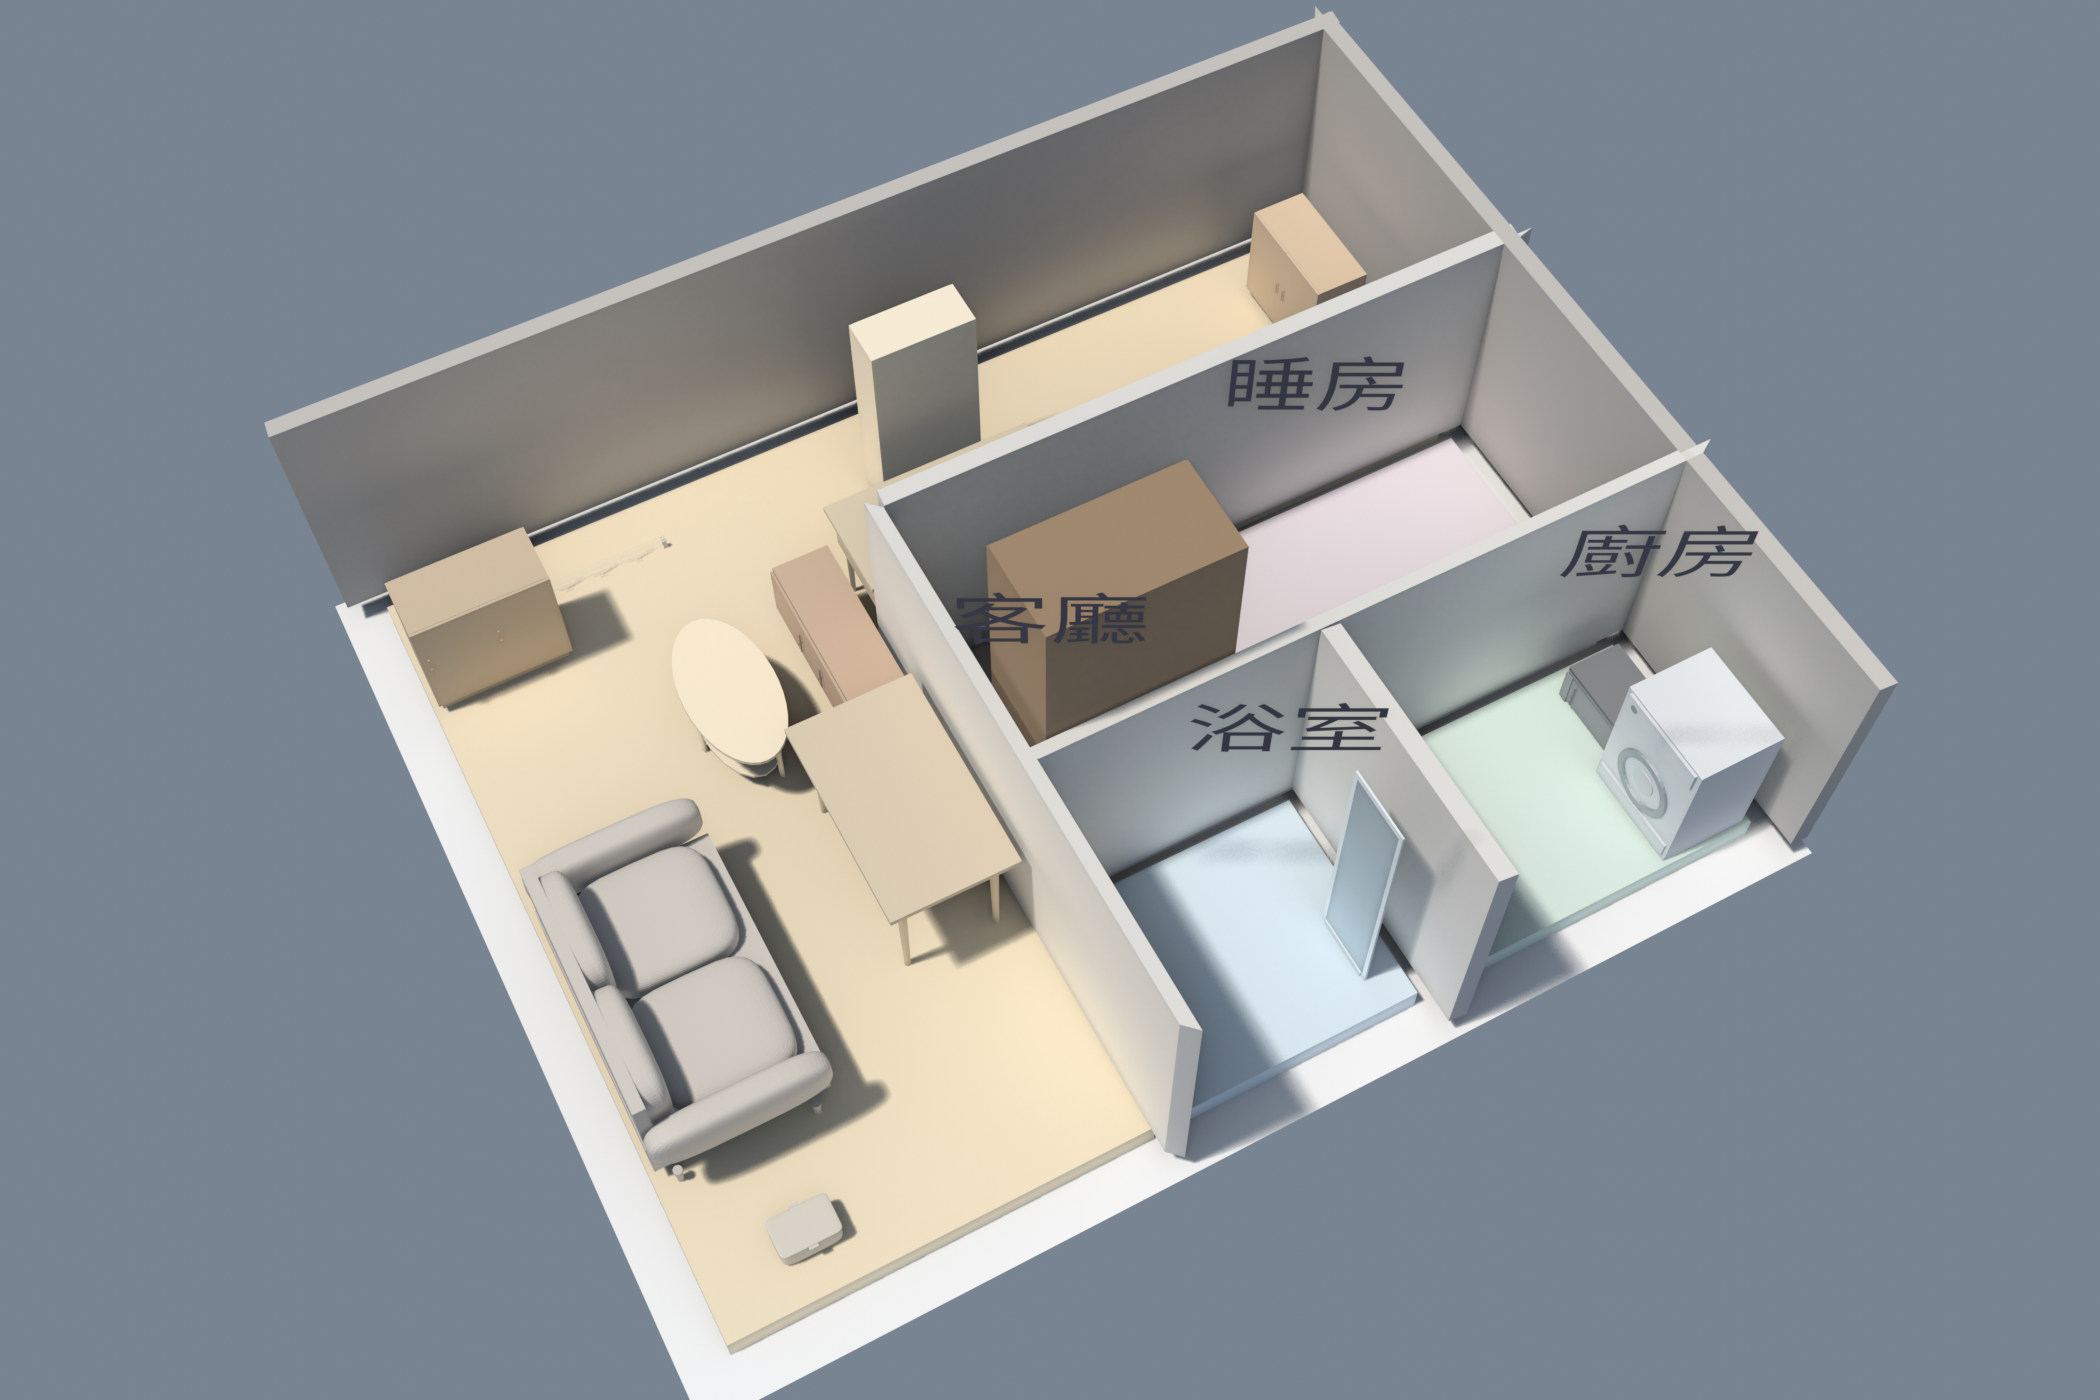
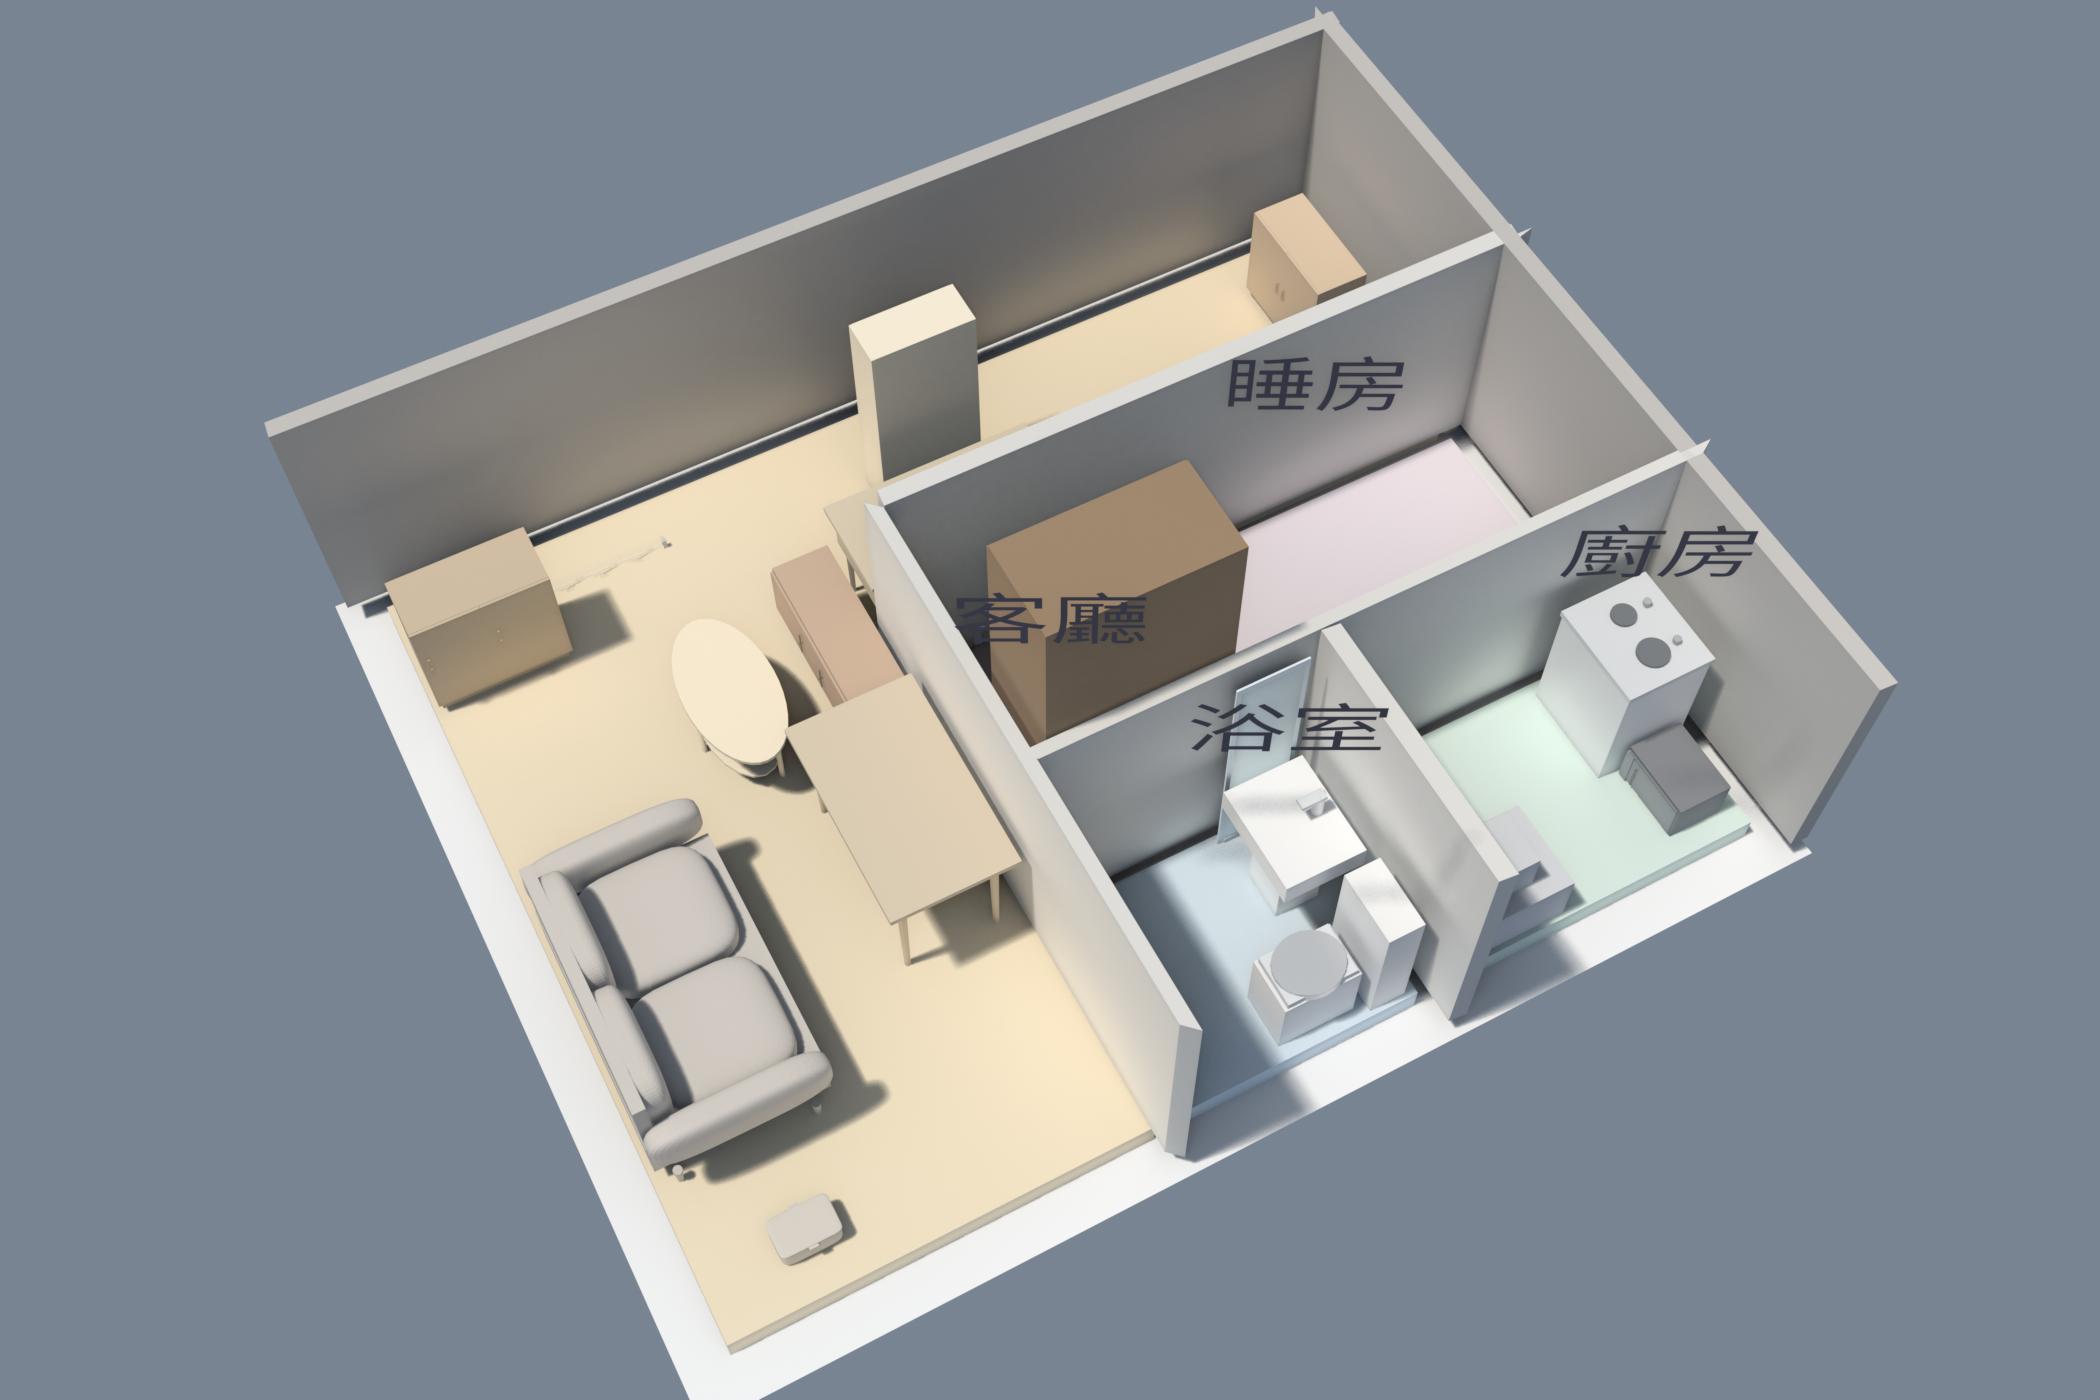
LLM 顾问层改用 DeepSeek-V4.1-Flash；修好「浴室没有马桶」和「整间房走不到」
两个都是小户型才暴露、而且都会让结果不合理地「看起来正常」的 bug：

1. 门洞走道固定 900x1200 = 1.08m²，而 plan_hk_b 浴室可用面积只有 1.57m²
   —— 走道吃掉 69% 楼面，马桶/洗手盆/淋浴间全部放不下，求解器最后
   只摆得下一块 400x30 的镜子。改成走道面积上限 = 房间面积 30%，
   深度下限 600mm。大房间不受影响。

2. _unreachable_items 从门口格洪水填充，门口格一旦落在某件家具的
   300mm 缓冲里就直接返回「全部家具都走不到」。1.57m² 的浴室里
   门口格必然被马桶盖住 —— 于是整间浴室报 3 条硬伤。
   改成从最近的自由格开始填充。

另外把 LLM 从本地 Qwen3.8-27B 换成 DeepSeek-V4.1-Flash API：
- 方言自动判别（llama.cpp 用 chat_template_kwargs，DeepSeek 用 reasoning_effort）
- DeepSeek 没有「关思考」选项，effort=low 在 prompt 变大后仍会用光
  2000 token 去思考、content 回来是空的 —— 改成 8000 且截断时加倍重试
- 不再随手把 reasoning_content 当答案解析（那是未完成的草稿）
- key 从 env / ~/.dsh/.credentials.yaml 读，不入库不入日志

实测：plan_hk_a 硬伤 4->0、plan_hk_b 硬伤 3->0，两间屋的浴室都有马桶。

Changed region(s): [[0.5571, 0.4607, 0.7738, 0.7679], [0.7119, 0.3993, 0.8667, 0.6143]]

diff --git a/packages/geometry/hkgeometry/livability.py b/packages/geometry/hkgeometry/livability.py
@@ -133,26 +133,44 @@ def _unreachable_items(room: Room, layout: Layout, person_mm: int = 600,
     ex, ey = room.entrance_point()
     ix = int(min(max(0, round((ex - minx - cell / 2) / cell)), nx - 1))
     iy = int(min(max(0, round((ey - miny - cell / 2) / cell)), ny - 1))
-    src = lab[iy, ix]
-    if src == 0:                      # 门口被堵死，整屋不可达
-        return [p.inst for p in layout.placements]
     def to_cell(px, py):
         jx = int(round((px - minx - cell / 2) / cell))
         jy = int(round((py - miny - cell / 2) / cell))
         return min(max(0, jx), nx - 1), min(max(0, jy), ny - 1)
 
-    def nearest_free(jxc, jyc, radius=12):
+    def nearest_free(jxc, jyc, radius=12, want=None):
         """在前方邻域里找最近的自由格 —— 探针点常常正好落在缓冲边界上，
-        直接取样会误报「走不到」。半径 12 格 = 1200mm。"""
+        直接取样会误报「走不到」。半径 12 格 = 1200mm。
+
+        want=None 表示「任何非 0 格都可以」（找起點時用）；
+        否則只在同一個連通域裡找。"""
         best, bd = None, 10 ** 9
         for dy in range(-radius, radius + 1):
             for dx in range(-radius, radius + 1):
                 jx, jy = jxc + dx, jyc + dy
-                if 0 <= jx < nx and 0 <= jy < ny and lab[jy, jx] == src:
-                    d = dx * dx + dy * dy
-                    if d < bd:
-                        bd, best = d, (jx, jy)
+                if not (0 <= jx < nx and 0 <= jy < ny):
+                    continue
+                lv = lab[jy, jx]
+                if lv == 0:
+                    continue
+                if want is not None and lv != want:
+                    continue
+                d = dx * dx + dy * dy
+                if d < bd:
+                    bd, best = d, (jx, jy)
         return best
+
+    src = lab[iy, ix]
+    if src == 0:
+        # ★ 門口格被家具緩衝蓋住 ≠ 整間房走唔到。
+        #   實測 plan_hk_b 浴室（1.57m²，深 1180mm）：門口探測點正好落在
+        #   馬桶的 300mm 緩衝裡，舊版就直接 return「全部家具都走唔到」——
+        #   一間正常嘅浴室被報成三件都行唔到。正確做法係由**最近的自由格**
+        #   開始淹水，唔係放棄。
+        nf = nearest_free(ix, iy)
+        if nf is None:
+            return [p.inst for p in layout.placements]
+        src = lab[nf[1], nf[0]]
 
     out = []
     for p in layout.placements:
@@ -163,7 +181,7 @@ def _unreachable_items(room: Room, layout: Layout, person_mm: int = 600,
         jx, jy = to_cell(px, py)
         if lab[jy, jx] == src:
             continue
-        if nearest_free(jx, jy) is None:
+        if nearest_free(jx, jy, want=src) is None:
             out.append(p.inst)
     return out
 

diff --git a/scripts/demo_llm_advisor.py b/scripts/demo_llm_advisor.py
@@ -26,7 +26,7 @@ sys.path.insert(0, os.path.join(ROOT, "scripts"))
 from hkgeometry.advisory import advise, render_for_customer
 from hkgeometry.greedy import GreedyWeights
 from hkgeometry.house import assign_rooms, load_flat, solve_house, verify_house
-from hkgeometry.llm_advisor import (LLMClient, apply_decisions, try_nudge)
+from hkgeometry.llm_advisor import (LOCAL_BASE, LLMClient, apply_decisions, try_nudge)
 from hkgeometry.livability import check_livability
 from hkgeometry.types import Placement
 from hkgeometry.viz import setup_font
@@ -143,6 +143,14 @@ def main() -> None:
                     help="用罐頭回應代替真調模型；可給多個路徑用逗號分隔（每輪一個）")
     ap.add_argument("--no-render", action="store_true")
     ap.add_argument("--temperature", type=float, default=0.2)
+    ap.add_argument("--llm-url", default="",
+                    help="OpenAI 兼容端點；留空 = DeepSeek 官方 API")
+    ap.add_argument("--llm-model", default="",
+                    help="模型 id（deepseek-flash / deepseek-v4-pro）")
+    ap.add_argument("--llm-effort", default="low",
+                    help="DeepSeek 的 reasoning_effort：low / high / max")
+    ap.add_argument("--local", action="store_true",
+                    help="改用本機 llama-server（127.0.0.1:8080）")
     ap.add_argument("--max-drops", type=int, default=2,
                     help="整個閉環最多可以丟幾件家具（丟嘢一定會令分數上升，必須設限）")
     ap.add_argument("--max-advices", type=int, default=5,
@@ -229,9 +237,18 @@ def main() -> None:
             dbg = {"raw": raw, "dropped": dropped, "system": "", "user": ""}
             print("    [mock] %s" % path)
         else:
-            client = LLMClient()
+            if args.local:
+                args.llm_url = args.llm_url or LOCAL_BASE
+            client = LLMClient(base_url=args.llm_url or None,
+                               model=args.llm_model or None,
+                               effort=args.llm_effort)
+            print("    LLM: %s" % client.describe())
+            if client.api_key in ("", "sk-local"):
+                print("    ⚠ 冇搵到 API key —— 睇 HKSPACE_LLM_KEY / "
+                      "DEEPSEEK_API_KEY / ~/.dsh/.credentials.yaml")
+                return
             try:
-                print("    model list: %s" % client.list_models())
+                print("    model list: %s" % client.list_models()[:6])
             except Exception as e:
                 print("    ⚠ 連不上 LLM: %s" % e)
                 return

diff --git a/packages/geometry/hkgeometry/greedy.py b/packages/geometry/hkgeometry/greedy.py
@@ -27,6 +27,15 @@ from .types import Layout, Placement, Room, front_dir
 GRID = 150            # 候选位置步长（mm）
 DOOR_W = 900          # 门洞走道宽
 DOOR_D = 1200         # 门洞走道往房内伸的深度
+# ★ 門口走道**唔可以食晒間房**。
+#   實測 plan_hk_b 浴室：可用面積 1.57m²，而 900x1200 的走道 = 1.08m² = 69%，
+#   於是馬桶／洗手盆／淋浴間全部「放不下」，求解器最後只擺得落一塊
+#   400x30 的鏡（唯一塞得入剩餘空隙嘅嘢）—— 出來係一間**冇馬桶嘅浴室**。
+#   修法：走道面積上限 = 房間可用面積的 MAX_DOOR_ZONE_FRAC，
+#   先減深度，深度下限 MIN_DOOR_DEPTH（夠開門同企入去）。
+#   大房完全唔受影響（16m² 客廳上限 4.8m² > 1.08m²）。
+MAX_DOOR_ZONE_FRAC = 0.30
+MIN_DOOR_DEPTH = 600
 # 深度只取 1200mm：够站进去、够关门就够了。
 # 曾经取 1500 并且再叠一条 2200mm 的「主通道」，结果把 3040 深的睡房吃掉
 # 75%，床一件都放不下（NO-SOLUTION）。两者本来就是重复的。
@@ -40,6 +49,9 @@ def door_approach_zones(room: Room, width: int = DOOR_W, depth: int = DOOR_D):
     圆判定为 0 侵占，但人根本过不去。
     """
     poly = room.usable_geo()
+    cap = MAX_DOOR_ZONE_FRAC * poly.area
+    if width * depth > cap:
+        depth = int(max(MIN_DOOR_DEPTH, cap / width))
     zones = []
     for op in room.openings:
         if op.kind != "door":

diff --git a/README.md b/README.md
@@ -166,10 +166,16 @@ python3 services/floorplan/vectorize.py --image data/floorplans/plan_hk_a.png --
 python3 scripts/demo_end2end.py
 python3 scripts/make_poster_e2e.py
 
-# ⑥ LLM 顾问闭环（需要 llama-server 在 127.0.0.1:8080）
-#    启动：LD_LIBRARY_PATH=llama.cpp/build/bin llama-server -m <model.gguf> \
-#           --host 127.0.0.1 --port 8080 -ngl 99 -c 8192 --jinja
+# ⑥ LLM 顾问闭环（默认走 DeepSeek-V4.1-Flash API）
+#    key 从 HKSPACE_LLM_KEY / DEEPSEEK_API_KEY / ~/.dsh/.credentials.yaml 读，
+#    不会写进 repo、日志或 prompt
 python3 scripts/demo_llm_advisor.py --max-rounds 4
+python3 scripts/demo_llm_advisor.py --plan out/plan_hk_b.json --tag b
+
+#    也可以切回本地 llama.cpp（方言会自动从 DeepSeek 换成 Qwen）：
+#    LD_LIBRARY_PATH=llama.cpp/build/bin llama-server -m <model.gguf> \
+#        --host 127.0.0.1 --port 8080 -ngl 99 -c 8192 --jinja
+python3 scripts/demo_llm_advisor.py --local --max-rounds 4
 ```
 
 产出在 `out/`：平面图 + 曝光度热力图 + 等视域 + 显大分卡片。
@@ -216,7 +222,7 @@ python3 scripts/demo_llm_advisor.py --max-rounds 4
 ```
 CP-SAT 解出方案
   -> advisory.py 把几何结果翻译成结构化意见（哪件放不下 / 差多少 mm / 有几个选择）
-  -> 本地 LLM（Qwen3.8-27B，llama.cpp @ 127.0.0.1:8080）决定怎么改
+  -> LLM（默认 DeepSeek-V4.1-Flash API；也可切本地 llama.cpp）决定怎么改
   -> 引擎分两条通道执行
   -> 几何 + 产品规则裁决，不通过就整轮回滚
   -> 重新渲染娃娃屋，并把执行结果回灌给 LLM 进入下一轮
@@ -244,9 +250,9 @@ CP-SAT 解出方案
 | 指标 | 基线 | LLM 闭环后 |
 |---|---|---|
 | 全屋硬伤 | 4 | **0** |
-| 客廳显大分 | 96.5 | **98.6** |
+| 客廳显大分 | 96.5 | **97.3** |
 | 睡房显大分 | 85.7 | **89.1** |
-| 整屋视觉负荷 | 0.1323 | **0.1266** |
+| 整屋视觉负荷 | 0.1323 | **0.1312** |
 | 待客户决定的意见 | 5 | **1**（浴室淋浴间 → 建议定制） |
 | 就位 | 22/23 | 20/21（丢了电视柜和茶几，两条都写明了替代方案） |
 
@@ -275,7 +281,7 @@ CP-SAT 解出方案
 实测抓到过一次：LLM 把书桌搬进客厅，结果客厅放不下沙发 —— 沙发被挤掉了，而**分数还涨了**
 （视觉负荷下降，因为东西变少了）。这正是「LLM 提议，几何裁决」存在的理由。
 
-### 换一张户型图（plan_hk_b）：一次暴露 7 个 bug
+### 换一张户型图（plan_hk_b）：一次暴露 10 个 bug
 
 plan_hk_b 是一个 25.5m² 的 4 房单位 —— L 形客廳 16.2m²、睡房 5.1m²（**净深只有 1490mm**）、
 厨房 2.4m²、浴室 1.7m²。同一份 23 件家具清单，第一版直接跑崩。
@@ -291,6 +297,8 @@ plan_hk_b 是一个 25.5m² 的 4 房单位 —— L 形客廳 16.2m²、睡房 
 | 6 | LLM 学会「不要就解决了」：6 轮丢掉 6 件，硬伤 5→0、客廳 82→96，但清单从 23 件缩到 9 件 | 闭环的目标函数（硬伤 + 显大分）里**没有「保留客户的家具」**，而**丢东西一定让分数上升**（东西少 → 视觉负荷低 → 硬伤少） | `--max-drops` 预算（默认 2 件）；用完引擎直接拒绝并回灌理由：「靠『不要』是解决不了容量问题的」 |
 | 7 | LLM 决定把电视柜／鞋柜／储物箱**搬去 5.1m² 的睡房** | `_room_choices` 只按面积排序，没过 `CATEGORY_ROOMS` | 提议阶段就只列**品类允许**的房间；执行阶段再校验一次 |
 | 8 | ⚠ **渲染图是一张根本不存在的平面图** | `render_house.py` 写死 `plan_hk_a.json`，而 `house_layout.json` 由调用方写入 —— 于是跑 B 的时候用的是 **A 的墙** + B 的家具坐标 | 户型／布局／输出路径全部参数化。**这个 bug 最危险：图画出来一切正常（有房有家具还有标签），只是那间屋不存在。** |
+| 9 | 🔴 **浴室里没有马桶** | 门洞走道是固定的 900×1200 = 1.08m²，而浴室可用面积只有 **1.57m²** —— 走道吃掉 **69%** 楼面，马桶／洗手盆／淋浴间全部「放不下」，求解器最后只摆得下一块 400×30 的**镜子**（唯一塞得进剩余空隙的东西） | 走道面积上限 = 房间可用面积的 30%，深度下限 600mm。修完马桶 + 洗手盆 + 镜子全部放得下（大房间完全不受影响，16m² 客厅上限 4.8m² 依然大于 1.08m²） |
+| 10 | 🔴 **整间浴室／厨房被报成「所有家具都走不到」** | `_unreachable_items` 从门口格开始洪水填充；门口格一旦落在某件家具的 300mm 缓冲里就直接 `return 全部家具`。1.57m² 的浴室里门口格**必然**被马桶盖住 | 门口格被占时，改从**最近的自由格**开始填充；真的找不到自由格才判定全不可达 |
 
 > 第 6 条是最值得记的一条：**只要目标函数里没有「保留」，优化器就一定会学会删除。**
 > 这不是 LLM 的问题 —— 换成任何搜索算法都会干同样的事。
@@ -302,7 +310,9 @@ plan_hk_b 是一个 25.5m² 的 4 房单位 —— L 形客廳 16.2m²、睡房 
 | 全屋硬伤 | 3 | **0** |
 | 客廳显大分 | 80.7 | **93.2** |
 | 待客户决定的意见 | 7 | **3** |
-| 就位 | 15/23 | 15/23（**一件没丢**） |
+| 就位 | 18/23 | 18/22（丢了 1 件，写明替代方案） |
+
+浴室最终放下 **马桶 + 洗手盆 + 镜子**（修完第 9、10 条之后）。
 
 剩下 3 条全部是「这间屋真的放不下」，而且都能量化：
 
